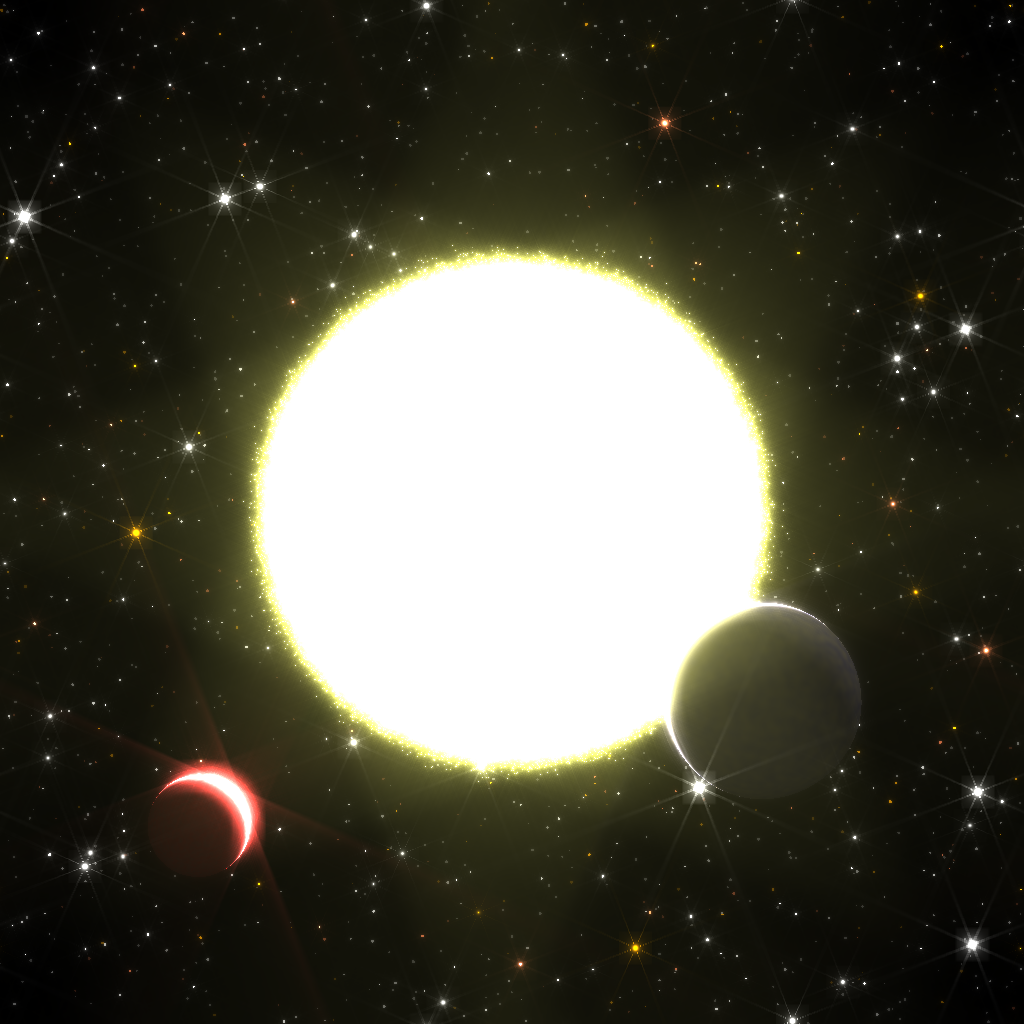
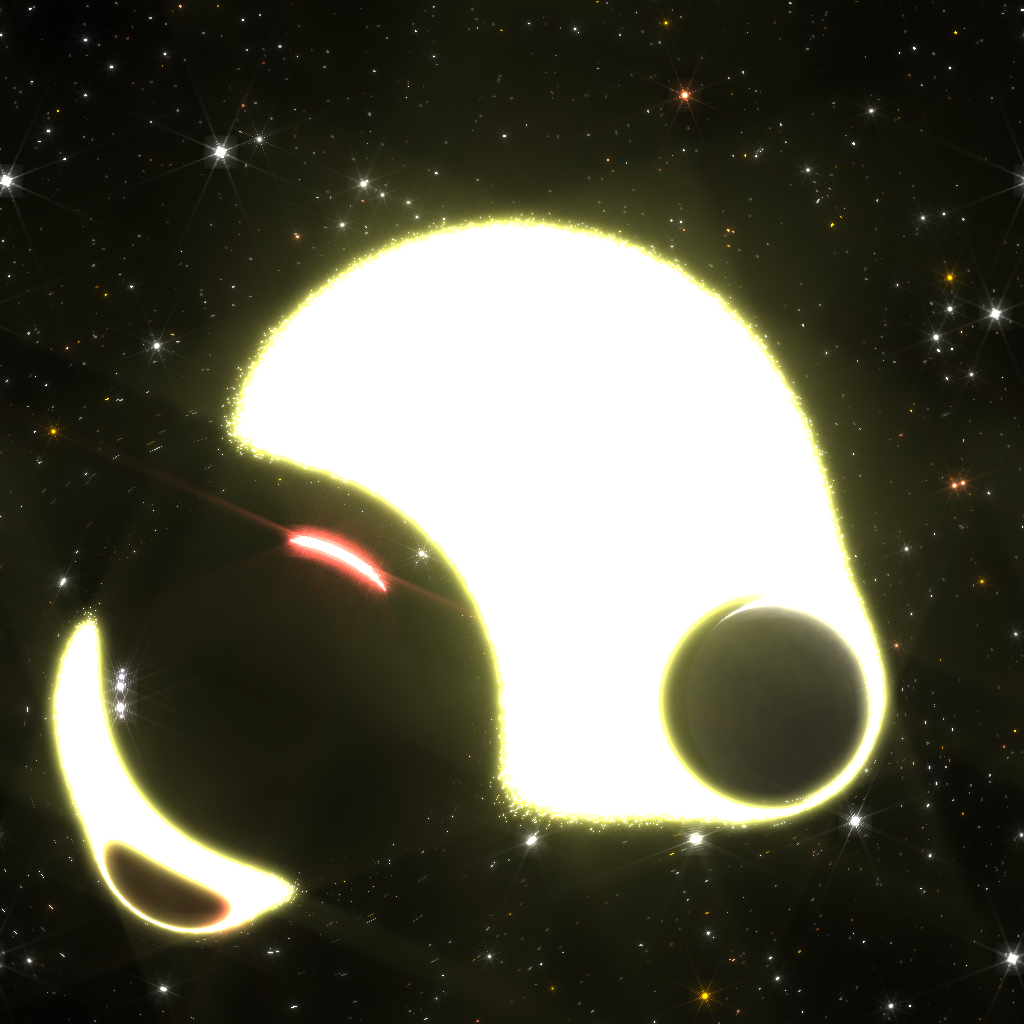
.

diff --git a/scenes/stars1.h b/scenes/stars1.h
@@ -131,7 +131,7 @@ void createStars2Scene(Scene *res) {
   // Sun.
   vec3 sun_center(0, 0, 200);
   float sun_radius = 45;
-  AddBigStar(Color(255, 255, 0), Color(255, 255, 255), 1, 8.0, 0.0, 2, 20, sun_radius, sun_center, 0, res);
+  AddBigStar(Color(255, 255, 0), Color(255, 255, 255), 1, 6.0, 0.0, 2, 20, sun_radius, sun_center, 0, res);
 
   // // Earth.
   AddBigStar(Color(79, 76, 176), Color(216, 197, 150), 1.3, 0.1, 0.5, 0.1, 0.3, 8, vec3(20, -15, 5), 0, res);
@@ -146,7 +146,7 @@ void createStars2Scene(Scene *res) {
   // AddBigStar(Color(79, 76, 176), Color(106, 147, 214), 15, 0.0, 0.01, 0.1, 0.1, 0.5, vec3(20, 0, 30), 0, res);
 
   // Black hole.
-  AddBigStar(Color(0, 0, 0), Color(0, 0, 0), 0, 0.0, 0.0, 0, 0, 1, vec3(-20, -20, 10), 5, res);
+  AddBigStar(Color(0, 0, 0), Color(0, 0, 0), 0, 0.0, 0.0, 0, 0, 7, vec3(-20, -15, 10), 20, res);
 
   SDF* bound_obj = new Sphere(vec3(), 1000, Material());
   bound_obj = new Negate(bound_obj);
@@ -170,7 +170,7 @@ void createStars2Scene(Scene *res) {
 
   res->addLight(new DirectionalLight(vec3(-1, -1, -1)));
 
-  // res->modifiable_rendering_params().use_gravity = true;
+  res->modifiable_rendering_params().use_gravity = true;
 }
 
 void createStars3Scene(Scene *res) {
